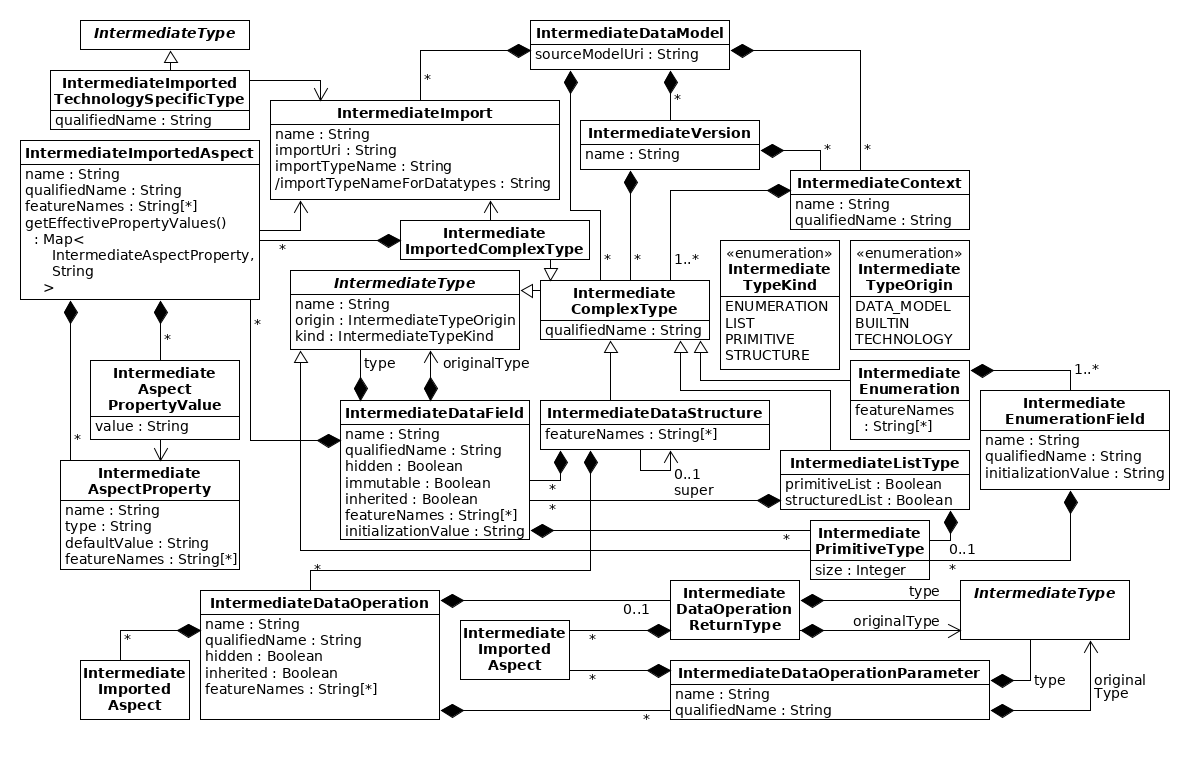
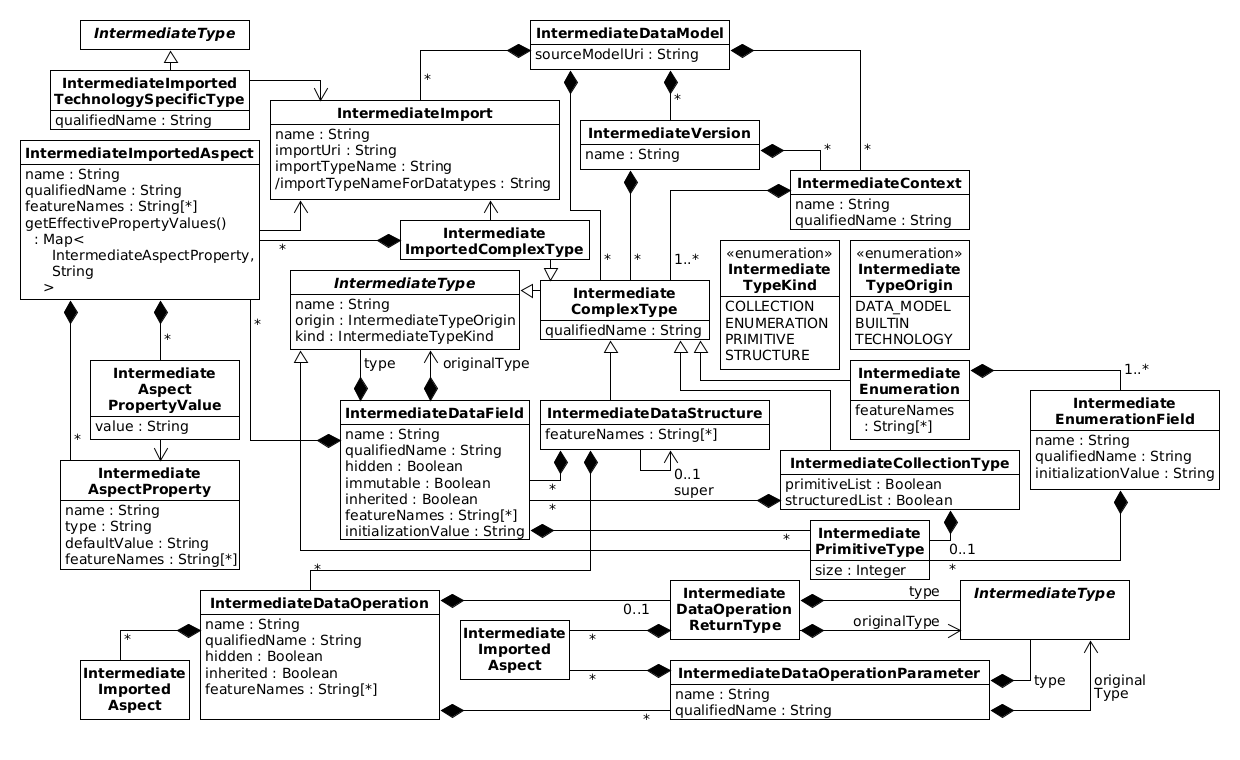
Replace "list" type with "collection" type

diff --git a/docs/getting-started/tour/index.md b/docs/getting-started/tour/index.md
@@ -95,7 +95,7 @@ from [Domain-driven Design (DDD)]({{ ddd_def_url }}) and its importance for the
 
 A context clusters one or more domain concepts between a pair of curly brackets.
 LEMMA supports several kinds of domain concepts and the above example
-illustrates the definition of structured and list concepts.
+illustrates the definition of structured and collection concepts.
 
 ### Structured Domain Concepts and Domain-Driven Design
 A structured concept (or *data structure*) is introduced by the keyword
@@ -133,13 +133,14 @@ which is a value object and consists of three primitively typed data fields. By
 contrast to the fields of the `Location` structure, the `VehicleCount` fields
 are mutable due to the lack of the modifier `immutable`.
 
-### List Type Domain Concepts
-Next to data structures, the example domain model defines two *list types* using
-the `list` keyword. In LEMMA, a list type specifies a sequence of one or more
-data fields that can have a primitive or complex type. Both list types in the
-example domain model, i.e., `ParkingSpaces` and `VehicleCounts`, have one field
-(`parkingSpace` and `vehicleCount`, respectively) of a structured type
-(`ParkingSpace` and `VehicleCount`, respectively).
+### Collection Type Domain Concepts
+Next to data structures, the example domain model defines two *collection types*
+using the `collection` keyword. In LEMMA, a collection type specifies a sequence
+of one or more data fields that can have a primitive or complex type. Both
+collection types in the example domain model, i.e., `ParkingSpaces` and
+`VehicleCounts`, have one field (`parkingSpace` and `vehicleCount`,
+respectively) of a structured type (`ParkingSpace` and `VehicleCount`,
+respectively).
 
 ## Step 3: Create a Service Model
 In this step, we use LEMMA's
@@ -202,11 +203,11 @@ microservice architecture. Other available type identifiers are `infrastructure`
 motivated by only a single business case, e.g., currency conversion).
 
 The `microservice` keyword determines the name of the microservice, which must
-have at least one qualifying level to configure the microservice's *namespace*. 
+have at least one qualifying level to configure the microservice's *namespace*.
 Qualifying levels are separated by dots (`.`) and, except for the last
 qualifying level, determine the microservice's namespace. This mechanism in fact
 follows the rules for package declaration in Java. Consequently, the
-fully-qualified name of the `SearchForFreeSpace` microservice is 
+fully-qualified name of the `SearchForFreeSpace` microservice is
 `com.example.pacp.SearchForFreeSpace`. It consists of the namespace
 `com.example.pacp` and the microservice's simple name `SearchForFreeSpace`.
 
@@ -222,7 +223,7 @@ service model defines an interface called `SearchSpace` for the
 
 Similar to microservices, interfaces can receive visibility modifiers and by
 default "inherit" the visibility of their microservices. As a result, the
-visibility of the `SearchSpace` is `public` as is the visibility of the 
+visibility of the `SearchSpace` is `public` as is the visibility of the
 `SearchForFreeSpace` microservice.
 
 ### Operation Definition
@@ -262,7 +263,7 @@ which an operation expects to receive or promises to return in a synchronous
 manner. The `async` keyword, on the other hand, defines parameters, which an
 operation expects to receive or promises to return in an asynchronous manner.
 
-Next to a communication type, a parameter definition in LEMMA can explicitly 
+Next to a communication type, a parameter definition in LEMMA can explicitly
 state the *direction* of a parameter, which can be incoming (`in` modifier),
 outgoing (`out` modifier), or bidirectional (`inout` modifier).
 
@@ -326,7 +327,7 @@ development and thus provides the
 to cluster technology information in *technology models* that are flexibly
 applicable to modeled microservices.
 
-In the following, we enrich the technology-agnostic example service model from 
+In the following, we enrich the technology-agnostic example service model from
 above with technology information for Java and the
 [Spring framework]({{ spring_url }}). While this binds the `SearchForFreeSpace`
 microservice to a certain technology stack, it makes it also possible to later
@@ -346,7 +347,7 @@ technology model file.
 
 !!! note
     Here, we will not go into further details concerning the construction of
-    technology models. Please refer to the user guide of the 
+    technology models. Please refer to the user guide of the
     [Technology Modeling Language](../../user-guide/technology-modeling-language/index.md)
     to learn about technology model construction.
 
@@ -400,7 +401,7 @@ That is, the example service model applies two technology aspects from the
 `Spring` technology model. More precisely, it applies the `Get` aspect to the
 `searchFreeSpace` operation and the `ResponseStatus` aspect to the operation's
 `freeSpaces`, `allocations`, and `foundNone` parameters. The `Spring` technology
-model defines these aspects to make the semantics of the Java annotations 
+model defines these aspects to make the semantics of the Java annotations
 [`GetMapping`]({{ spring_get_mapping_annotation_url }}) and
 [`ResponseStatus`]({{ spring_response_status_annotation_url }}) available to
 LEMMA modelers. As a result, the `searchFreeSpace` operation will be invokable
@@ -456,7 +457,7 @@ to `Kubernetes.technology` file.
 
 !!! note
     Here, we will not go into further details concerning the construction of
-    technology models. Please refer to the user guide of the 
+    technology models. Please refer to the user guide of the
     [Technology Modeling Language](../../user-guide/technology-modeling-language/index.md)
     to learn about technology model construction.
 
@@ -493,7 +494,7 @@ the `Spring.technology` model from
 [Step 4](#step-4-enrich-the-service-model-with-technology-information). Notice
 that for technology model imports the
 [Operation Modeling Language](../../user-guide/operation-modeling-language/index.md)
-relies on the same syntactic construct as the 
+relies on the same syntactic construct as the
 [Service Modeling Language](../../user-guide/service-modeling-language/index.md):
 
 !!! example ""
@@ -501,7 +502,7 @@ relies on the same syntactic construct as the
 
 In case an operation model shall specify the deployment of a microservice or its
 usage of infrastructure components, the model must also import the corresponding
-service model. In the above example code, the operation model imports the 
+service model. In the above example code, the operation model imports the
 `SearchForFreeSpace` microservice from the service model in the file
 `micro.services` (cf. Steps [3](#step-3-create-a-service-model) and
 [4](#step-4-enrich-the-service-model-with-technology-information)). To this end,
@@ -561,7 +562,7 @@ imported domain concepts (cf. [Step 3](#step-3-create-a-service-model)):
     `[IMPORTED_SERVICE_MODEL_ALIAS]::[FULLY_QUALIFIED_MICROSERVICE_NAME]`
 
 Since the `SearchForFreeServiceContainer` container shall deploy the
-`SearchForFreeSpace` microservice from the `micro.services` file (cf. 
+`SearchForFreeSpace` microservice from the `micro.services` file (cf.
 Steps [3](#step-3-create-a-service-model) and
 [4](#step-4-enrich-the-service-model-with-technology-information)), which we
 imported with the alias `SearchForFreeService`, we refer to the service for its
